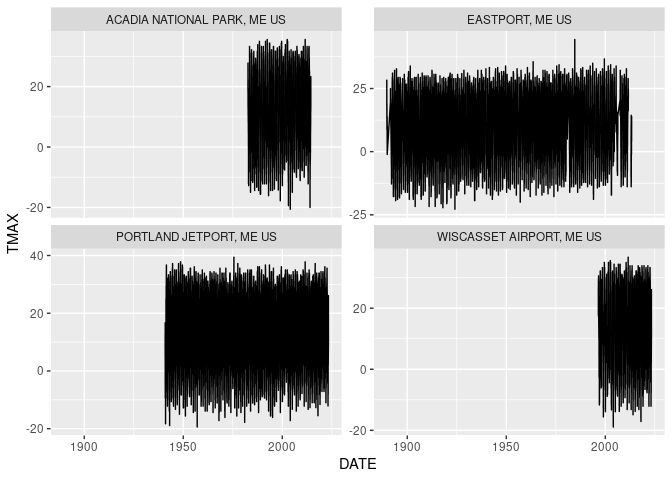
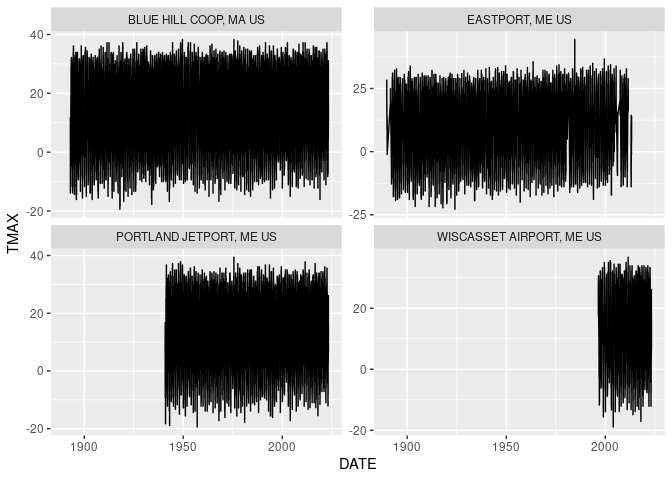
add inventory, check urls, more README

diff --git a/README.md b/README.md
@@ -26,6 +26,9 @@ From within R using
 
 ``` r
 suppressPackageStartupMessages({
+  library(rnaturalearth)
+  library(rnaturalearthdata)
+  library(charlier)
   library(ghcnd)
   library(sf)
   library(ggplot2)
@@ -56,25 +59,50 @@ plot(stations['elev'], pch = "+", main = 'Elevation in meters')
 #### Get Data from one or more stations
 
 ``` r
-x = fetch_station(c('USW00014764', "USW00094623", 
-                     "USC00172426", "USC00170100")) |>
+# stations can come and go, so check that yours are in the current list
+my_stations = stations |>
+  dplyr::filter(id %in% 
+                c('USW00014764', "USW00094623", "USC00172426", "USC00190736"))
+
+x = fetch_station(my_stations) |>
   glimpse()
 ```
 
-    ## Rows: 93,783
+    ## Rows: 129,860
     ## Columns: 58
-    ## $ STATION   <chr> "USW00014764", "USW00014764", "USW00014764", "USW00014764", …
-    ## $ DATE      <date> 1940-11-07, 1940-11-08, 1940-11-09, 1940-11-10, 1940-11-11,…
-    ## $ ELEVATION <dbl> 13.5, 13.5, 13.5, 13.5, 13.5, 13.5, 13.5, 13.5, 13.5, 13.5, …
-    ## $ NAME      <chr> "PORTLAND JETPORT, ME US", "PORTLAND JETPORT, ME US", "PORTL…
-    ## $ PRCP      <dbl> NA, NA, NA, NA, NA, NA, NA, NA, NA, NA, NA, NA, NA, NA, NA, …
+    ## $ STATION   <chr> "USC00172426", "USC00172426", "USC00172426", "USC00172426", …
+    ## $ DATE      <date> 1889-09-01, 1889-09-02, 1889-09-03, 1889-09-04, 1889-09-05,…
+    ## $ ELEVATION <dbl> 25.9, 25.9, 25.9, 25.9, 25.9, 25.9, 25.9, 25.9, 25.9, 25.9, …
+    ## $ NAME      <chr> "EASTPORT, ME US", "EASTPORT, ME US", "EASTPORT, ME US", "EA…
+    ## $ PRCP      <dbl> 0.0, 0.0, 0.0, 0.0, 0.3, 0.0, 0.0, 0.0, 0.0, 0.0, 0.0, 0.0, …
     ## $ SNOW      <dbl> NA, NA, NA, NA, NA, NA, NA, NA, NA, NA, NA, NA, NA, NA, NA, …
     ## $ SNWD      <dbl> NA, NA, NA, NA, NA, NA, NA, NA, NA, NA, NA, NA, NA, NA, NA, …
-    ## $ TMAX      <dbl> 7.8, 10.0, 9.4, 7.2, 10.6, 12.8, 8.3, 5.0, 6.7, 7.2, 4.4, 6.…
-    ## $ TMIN      <dbl> -1.1, -0.6, -2.8, -5.6, 2.2, 7.8, 4.4, 2.8, 3.3, -1.1, -2.8,…
+    ## $ TMAX      <dbl> 21.1, 28.3, 24.4, 25.6, 17.8, 20.6, 21.1, 21.1, 21.7, 16.1, …
+    ## $ TMIN      <dbl> 12.8, 12.2, 14.4, 12.8, 10.0, 13.3, 12.2, 13.3, 12.2, 14.4, …
+    ## $ AWND      <dbl> NA, NA, NA, NA, NA, NA, NA, NA, NA, NA, NA, NA, NA, NA, NA, …
+    ## $ DAPR      <dbl> NA, NA, NA, NA, NA, NA, NA, NA, NA, NA, NA, NA, NA, NA, NA, …
+    ## $ DASF      <dbl> NA, NA, NA, NA, NA, NA, NA, NA, NA, NA, NA, NA, NA, NA, NA, …
+    ## $ MDPR      <dbl> NA, NA, NA, NA, NA, NA, NA, NA, NA, NA, NA, NA, NA, NA, NA, …
+    ## $ MDSF      <dbl> NA, NA, NA, NA, NA, NA, NA, NA, NA, NA, NA, NA, NA, NA, NA, …
+    ## $ TOBS      <dbl> NA, NA, NA, NA, NA, NA, NA, NA, NA, NA, NA, NA, NA, NA, NA, …
+    ## $ WDFG      <dbl> NA, NA, NA, NA, NA, NA, NA, NA, NA, NA, NA, NA, NA, NA, NA, …
+    ## $ WSFG      <dbl> NA, NA, NA, NA, NA, NA, NA, NA, NA, NA, NA, NA, NA, NA, NA, …
+    ## $ WT01      <dbl> NA, NA, NA, NA, NA, NA, NA, NA, NA, NA, NA, NA, NA, NA, NA, …
+    ## $ WT03      <dbl> NA, NA, NA, NA, NA, NA, NA, NA, NA, NA, NA, NA, NA, NA, NA, …
+    ## $ WT04      <dbl> NA, NA, NA, NA, NA, NA, NA, NA, NA, NA, NA, NA, NA, NA, NA, …
+    ## $ WT05      <dbl> NA, NA, NA, NA, NA, NA, NA, NA, NA, NA, NA, NA, NA, NA, NA, …
+    ## $ WT06      <dbl> NA, NA, NA, NA, NA, NA, NA, NA, NA, NA, NA, NA, NA, NA, NA, …
+    ## $ WT08      <dbl> NA, NA, NA, NA, NA, NA, NA, NA, NA, NA, NA, NA, NA, NA, NA, …
+    ## $ WT11      <dbl> NA, NA, NA, NA, NA, NA, NA, NA, NA, NA, NA, NA, NA, NA, NA, …
+    ## $ geometry  <POINT [°]> POINT (-66.99194 44.90667), POINT (-66.99194 44.90667)…
+    ## $ WESD      <dbl> NA, NA, NA, NA, NA, NA, NA, NA, NA, NA, NA, NA, NA, NA, NA, …
+    ## $ WT07      <dbl> NA, NA, NA, NA, NA, NA, NA, NA, NA, NA, NA, NA, NA, NA, NA, …
+    ## $ WT09      <dbl> NA, NA, NA, NA, NA, NA, NA, NA, NA, NA, NA, NA, NA, NA, NA, …
+    ## $ WT14      <dbl> NA, NA, NA, NA, NA, NA, NA, NA, NA, NA, NA, NA, NA, NA, NA, …
+    ## $ WT16      <dbl> NA, NA, NA, NA, NA, NA, NA, NA, NA, NA, NA, NA, NA, NA, NA, …
+    ## $ WT18      <dbl> NA, NA, NA, NA, NA, NA, NA, NA, NA, NA, NA, NA, NA, NA, NA, …
     ## $ ACMH      <dbl> NA, NA, NA, NA, NA, NA, NA, NA, NA, NA, NA, NA, NA, NA, NA, …
     ## $ ACSH      <dbl> NA, NA, NA, NA, NA, NA, NA, NA, NA, NA, NA, NA, NA, NA, NA, …
-    ## $ AWND      <dbl> NA, NA, NA, NA, NA, NA, NA, NA, NA, NA, NA, NA, NA, NA, NA, …
     ## $ FMTM      <dbl> NA, NA, NA, NA, NA, NA, NA, NA, NA, NA, NA, NA, NA, NA, NA, …
     ## $ FRGB      <dbl> NA, NA, NA, NA, NA, NA, NA, NA, NA, NA, NA, NA, NA, NA, NA, …
     ## $ FRGT      <dbl> NA, NA, NA, NA, NA, NA, NA, NA, NA, NA, NA, NA, NA, NA, NA, …
@@ -83,44 +111,23 @@ x = fetch_station(c('USW00014764', "USW00094623",
     ## $ PGTM      <dbl> NA, NA, NA, NA, NA, NA, NA, NA, NA, NA, NA, NA, NA, NA, NA, …
     ## $ PSUN      <dbl> NA, NA, NA, NA, NA, NA, NA, NA, NA, NA, NA, NA, NA, NA, NA, …
     ## $ TAVG      <dbl> NA, NA, NA, NA, NA, NA, NA, NA, NA, NA, NA, NA, NA, NA, NA, …
-    ## $ TOBS      <dbl> NA, NA, NA, NA, NA, NA, NA, NA, NA, NA, NA, NA, NA, NA, NA, …
     ## $ TSUN      <dbl> NA, NA, NA, NA, NA, NA, NA, NA, NA, NA, NA, NA, NA, NA, NA, …
     ## $ WDF1      <dbl> NA, NA, NA, NA, NA, NA, NA, NA, NA, NA, NA, NA, NA, NA, NA, …
     ## $ WDF2      <dbl> NA, NA, NA, NA, NA, NA, NA, NA, NA, NA, NA, NA, NA, NA, NA, …
     ## $ WDF5      <dbl> NA, NA, NA, NA, NA, NA, NA, NA, NA, NA, NA, NA, NA, NA, NA, …
-    ## $ WDFG      <dbl> NA, NA, NA, NA, NA, NA, NA, NA, NA, NA, NA, NA, NA, NA, NA, …
     ## $ WDFM      <dbl> NA, NA, NA, NA, NA, NA, NA, NA, NA, NA, NA, NA, NA, NA, NA, …
-    ## $ WESD      <dbl> NA, NA, NA, NA, NA, NA, NA, NA, NA, NA, NA, NA, NA, NA, NA, …
     ## $ WSF1      <dbl> NA, NA, NA, NA, NA, NA, NA, NA, NA, NA, NA, NA, NA, NA, NA, …
     ## $ WSF2      <dbl> NA, NA, NA, NA, NA, NA, NA, NA, NA, NA, NA, NA, NA, NA, NA, …
     ## $ WSF5      <dbl> NA, NA, NA, NA, NA, NA, NA, NA, NA, NA, NA, NA, NA, NA, NA, …
-    ## $ WSFG      <dbl> NA, NA, NA, NA, NA, NA, NA, NA, NA, NA, NA, NA, NA, NA, NA, …
     ## $ WSFM      <dbl> NA, NA, NA, NA, NA, NA, NA, NA, NA, NA, NA, NA, NA, NA, NA, …
-    ## $ WT01      <dbl> NA, NA, NA, NA, NA, NA, NA, NA, NA, NA, NA, NA, NA, NA, NA, …
     ## $ WT02      <dbl> NA, NA, NA, NA, NA, NA, NA, NA, NA, NA, NA, NA, NA, NA, NA, …
-    ## $ WT03      <dbl> NA, NA, NA, NA, NA, NA, NA, NA, NA, NA, NA, NA, NA, NA, NA, …
-    ## $ WT04      <dbl> NA, NA, NA, NA, NA, NA, NA, NA, NA, NA, NA, NA, NA, NA, NA, …
-    ## $ WT05      <dbl> NA, NA, NA, NA, NA, NA, NA, NA, NA, NA, NA, NA, NA, NA, NA, …
-    ## $ WT06      <dbl> NA, NA, NA, NA, NA, NA, NA, NA, NA, NA, NA, NA, NA, NA, NA, …
-    ## $ WT07      <dbl> NA, NA, NA, NA, NA, NA, NA, NA, NA, NA, NA, NA, NA, NA, NA, …
-    ## $ WT08      <dbl> NA, NA, NA, NA, NA, NA, NA, NA, NA, NA, NA, NA, NA, NA, NA, …
-    ## $ WT09      <dbl> NA, NA, NA, NA, NA, NA, NA, NA, NA, NA, NA, NA, NA, NA, NA, …
-    ## $ WT11      <dbl> NA, NA, NA, NA, NA, NA, NA, NA, NA, NA, NA, NA, NA, NA, NA, …
     ## $ WT13      <dbl> NA, NA, NA, NA, NA, NA, NA, NA, NA, NA, NA, NA, NA, NA, NA, …
-    ## $ WT14      <dbl> NA, NA, NA, NA, NA, NA, NA, NA, NA, NA, NA, NA, NA, NA, NA, …
     ## $ WT15      <dbl> NA, NA, NA, NA, NA, NA, NA, NA, NA, NA, NA, NA, NA, NA, NA, …
-    ## $ WT16      <dbl> NA, NA, NA, NA, NA, NA, NA, NA, NA, NA, NA, NA, NA, NA, NA, …
     ## $ WT17      <dbl> NA, NA, NA, NA, NA, NA, NA, NA, NA, NA, NA, NA, NA, NA, NA, …
-    ## $ WT18      <dbl> NA, NA, NA, NA, NA, NA, NA, NA, NA, NA, NA, NA, NA, NA, NA, …
     ## $ WT19      <dbl> NA, NA, NA, NA, NA, NA, NA, NA, NA, NA, NA, NA, NA, NA, NA, …
     ## $ WT21      <dbl> NA, NA, NA, NA, NA, NA, NA, NA, NA, NA, NA, NA, NA, NA, NA, …
     ## $ WT22      <dbl> NA, NA, NA, NA, NA, NA, NA, NA, NA, NA, NA, NA, NA, NA, NA, …
     ## $ WV03      <lgl> NA, NA, NA, NA, NA, NA, NA, NA, NA, NA, NA, NA, NA, NA, NA, …
-    ## $ geometry  <POINT [°]> POINT (-70.30443 43.64244), POINT (-70.30443 43.64244)…
-    ## $ DAPR      <dbl> NA, NA, NA, NA, NA, NA, NA, NA, NA, NA, NA, NA, NA, NA, NA, …
-    ## $ DASF      <dbl> NA, NA, NA, NA, NA, NA, NA, NA, NA, NA, NA, NA, NA, NA, NA, …
-    ## $ MDPR      <dbl> NA, NA, NA, NA, NA, NA, NA, NA, NA, NA, NA, NA, NA, NA, NA, …
-    ## $ MDSF      <dbl> NA, NA, NA, NA, NA, NA, NA, NA, NA, NA, NA, NA, NA, NA, NA, …
 
 ``` r
 x = x |> 
@@ -132,8 +139,8 @@ ggplot(data = x,  aes(x=DATE, y=TMAX)) +
 
 ![](README_files/figure-gfm/unnamed-chunk-4-1.png)<!-- -->
 
-The same data aggregated into monthly means. Below, we show just January
-TMAX.
+The same data aggregated into monthly means. Below, we show January and
+July TMAX.
 
 ``` r
 m = aggregate_monthly(x) |>
@@ -148,3 +155,50 @@ ggplot(data = filter(m, MONTH == "Jan"),  aes(x=DATE, y=TMAX)) +
     ## `geom_smooth()` using method = 'loess' and formula = 'y ~ x'
 
 ![](README_files/figure-gfm/unnamed-chunk-5-1.png)<!-- -->
+
+``` r
+ggplot(data = filter(m, MONTH == "Jul"),  aes(x=DATE, y=TMAX)) +
+  geom_line() + 
+  geom_smooth() + 
+  facet_wrap(~NAME, scales = 'free_y')
+```
+
+    ## `geom_smooth()` using method = 'loess' and formula = 'y ~ x'
+
+![](README_files/figure-gfm/unnamed-chunk-6-1.png)<!-- -->
+
+And it is always interesting to see how the TMX-TMIN difference changes
+overtime…
+
+``` r
+m = mutate(m, TDIFF = TMAX-TMIN)
+
+ggplot(data = filter(m, MONTH == "Jul"),  aes(x=DATE, y=TDIFF)) +
+  geom_line() + 
+  geom_smooth() + 
+  facet_wrap(~NAME, scales = 'free_y')
+```
+
+    ## `geom_smooth()` using method = 'loess' and formula = 'y ~ x'
+
+![](README_files/figure-gfm/unnamed-chunk-7-1.png)<!-- -->
+
+### Inventory
+
+GHCN provides an inventory of per station data. We provide the stations
+table which allows us to transfer the station names to the inventory.
+
+``` r
+inv = fetch_inventory(stations = stations) |>
+  glimpse()
+```
+
+    ## Rows: 738,180
+    ## Columns: 7
+    ## $ id        <chr> "ACW00011604", "ACW00011604", "ACW00011604", "ACW00011604", …
+    ## $ element   <chr> "TMAX", "TMIN", "PRCP", "SNOW", "SNWD", "PGTM", "WDFG", "WSF…
+    ## $ firstyear <dbl> 1949, 1949, 1949, 1949, 1949, 1949, 1949, 1949, 1949, 1949, …
+    ## $ lastyear  <dbl> 1949, 1949, 1949, 1949, 1949, 1949, 1949, 1949, 1949, 1949, …
+    ## $ geometry  <POINT [°]> POINT (-61.7833 17.1167), POINT (-61.7833 17.1167), PO…
+    ## $ duration  <dbl> 1, 1, 1, 1, 1, 1, 1, 1, 1, 1, 1, 1, 1, 14, 14, 14, 1, 6, 80,…
+    ## $ name      <chr> "ST JOHNS COOLIDGE FLD", "ST JOHNS COOLIDGE FLD", "ST JOHNS …
